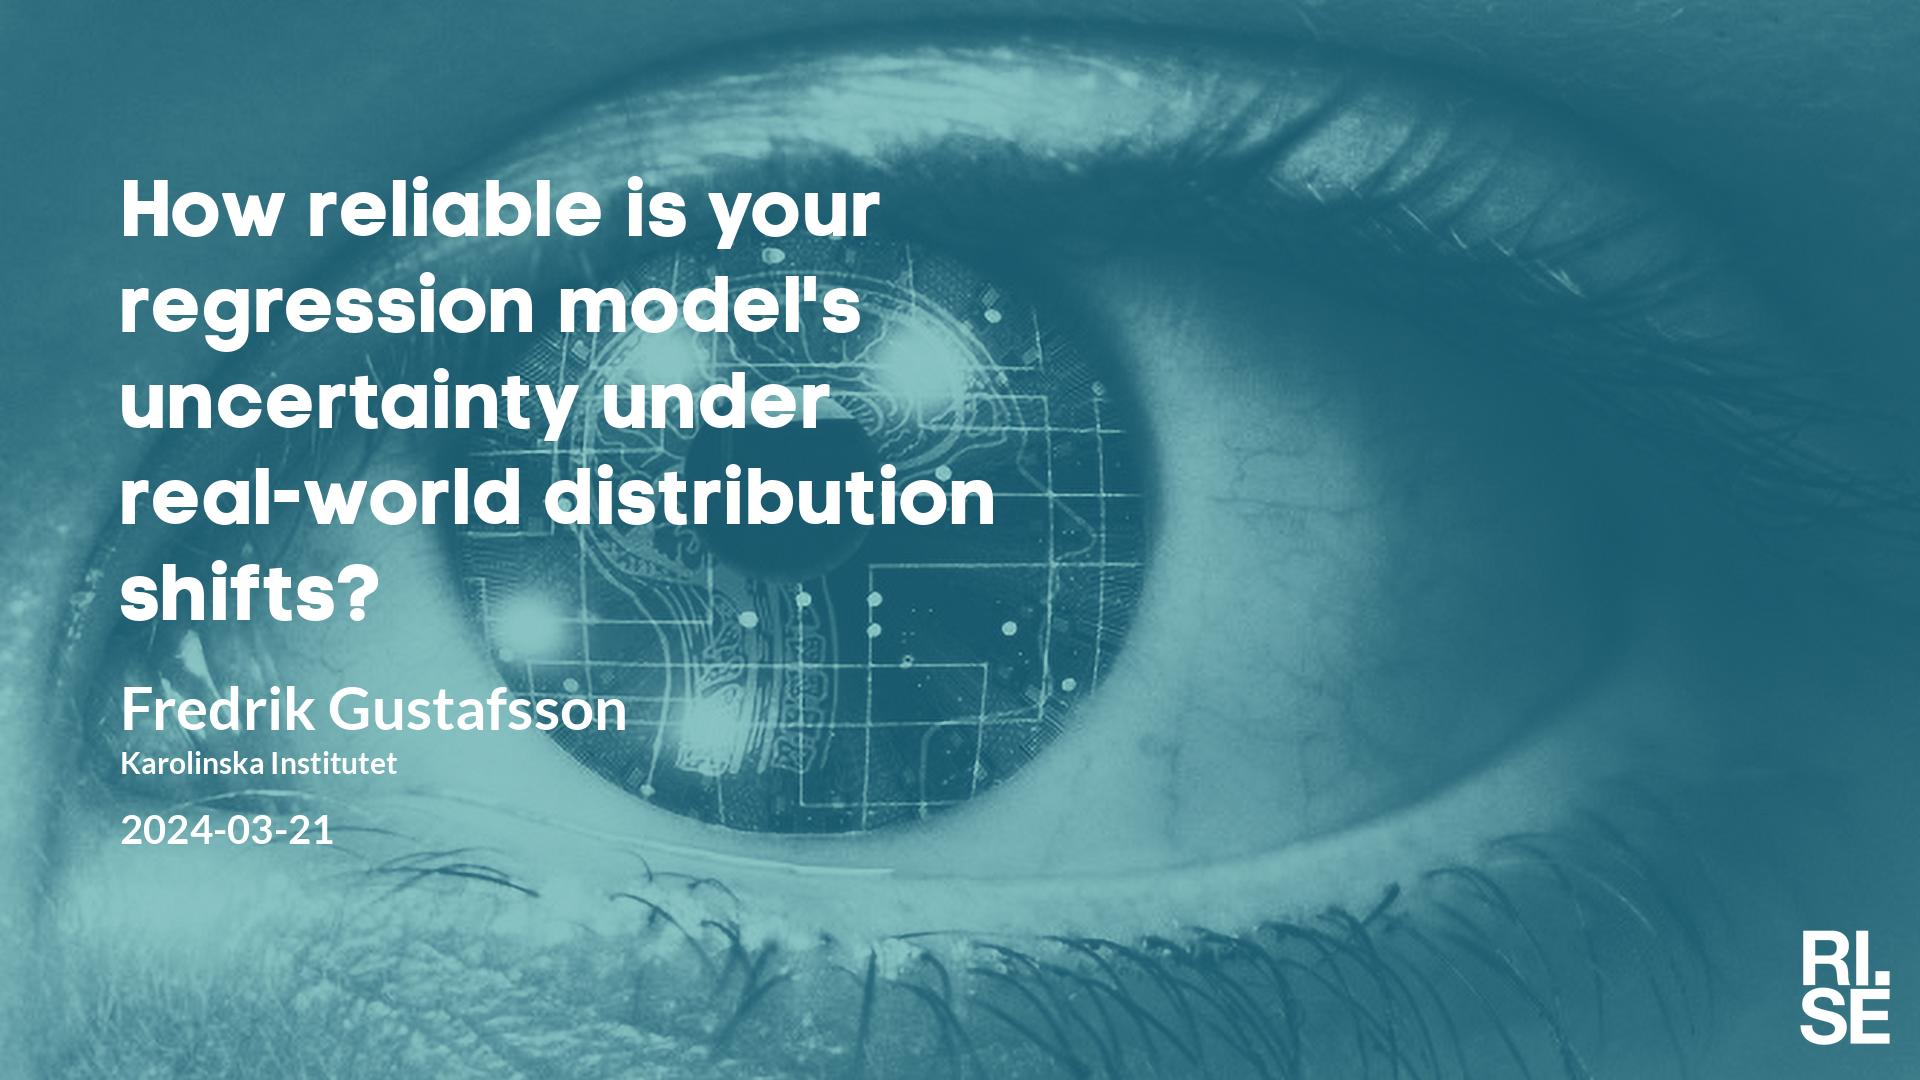
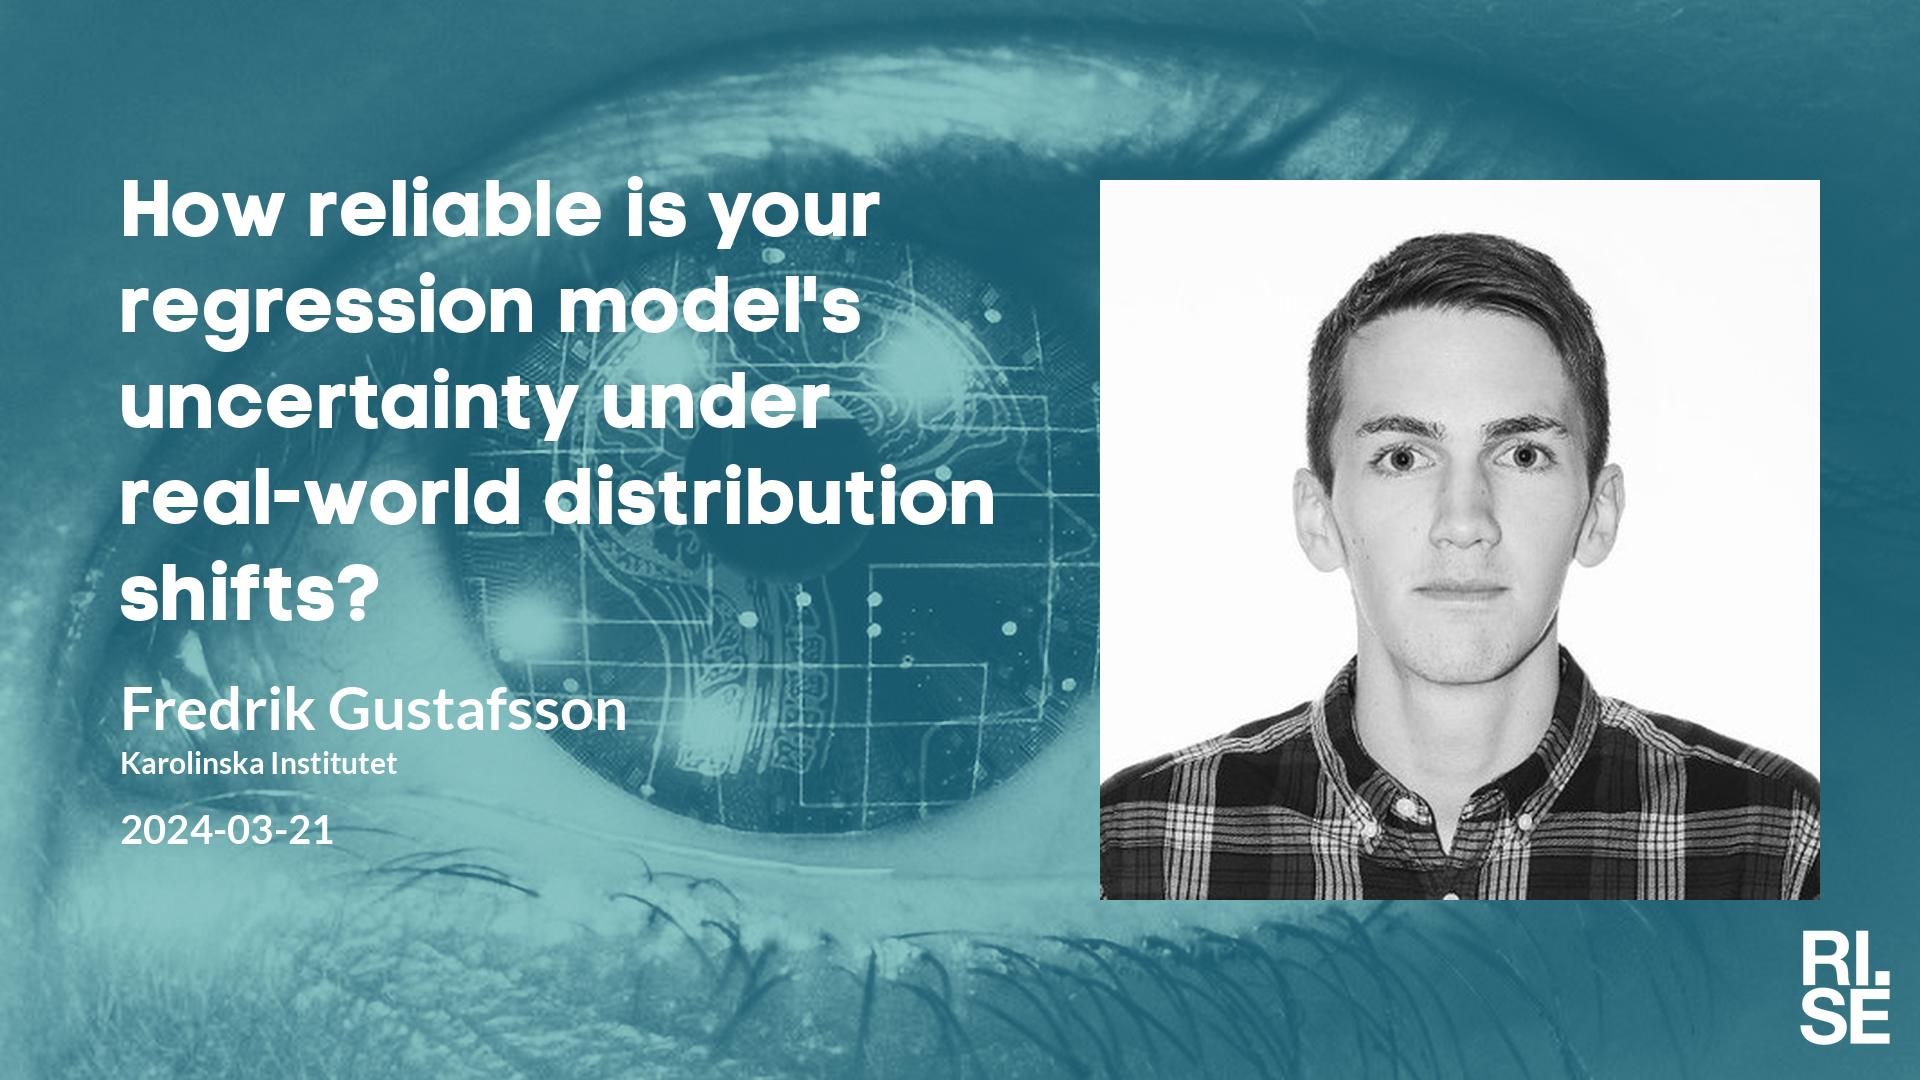
Updated plan on web site.

Changed region(s): [[0.5625, 0.1528, 0.9688, 0.8556]]

diff --git a/lm/index.md b/lm/index.md
@@ -19,7 +19,7 @@ table {border-collapse: collapse;}
 | <span style="color:red"> 2024-02-29 </span> | <span style="color:red"> Sportlov </span> | <span style="color:red">  </span> | <span style="color:red">  </span> | <span style="color:red">  </span> | <span style="color:red">  </span> | <span style="color:red"> CANCELLED </span> |
 |  2024-03-07  |  [Elise van der Pol, Microsoft Research](2024-03-07.md)  |  [photo](photo-elise-van-der-pol.jpg)  |  [social media ](social-media-elise-van-der-pol.jpg)  |  [meeting backdrop ](meeting-backdrop-elise-van-der-pol.jpg)  |  [youtube thumbnail ](youtube-thumbnail-elise-van-der-pol.jpg)  |  S~~TAB~~P  |
 |  2024-03-14  |  [Santiago Martinez Balvanera, University College London](2024-03-14.md)  |  [photo](photo-santiago-martinez-balvanera.jpg)  |  [social media ](social-media-santiago-martinez-balvanera.jpg)  |  [meeting backdrop ](meeting-backdrop-santiago-martinez-balvanera.jpg)  |  [youtube thumbnail ](youtube-thumbnail-santiago-martinez-balvanera.jpg)  |  S~~TAB~~P  |
-|  2024-03-21  |  [Fredrik Gustafsson, Karolinska Institutet](2024-03-21.md)  |    |  [social media ](social-media-fredrik-gustafsson.jpg)  |  [meeting backdrop ](meeting-backdrop-fredrik-gustafsson.jpg)  |  [youtube thumbnail ](youtube-thumbnail-fredrik-gustafsson.jpg)  |  STA~~BP~~  |
+|  2024-03-21  |  [Fredrik Gustafsson, Karolinska Institutet](2024-03-21.md)  |  [photo](photo-fredrik-gustafsson.jpg)  |  [social media ](social-media-fredrik-gustafsson.jpg)  |  [meeting backdrop ](meeting-backdrop-fredrik-gustafsson.jpg)  |  [youtube thumbnail ](youtube-thumbnail-fredrik-gustafsson.jpg)  |  STA~~B~~P  |
 |  2024-04-04  |  [Karsten Kreis, NVIDIA Toronto AI Lab](2024-04-04.md)  |    |  [social media ](social-media-karsten-kreis.jpg)  |  [meeting backdrop ](meeting-backdrop-karsten-kreis.jpg)  |  [youtube thumbnail ](youtube-thumbnail-karsten-kreis.jpg)  |  S~~TABP~~  |
 | <span style="color:purple"> 2024-04-11 </span> | <span style="color:purple"> *Up for grabs!!!* </span> | <span style="color:purple">  </span> | <span style="color:purple">  </span> | <span style="color:purple">  </span> | <span style="color:purple">  </span> | <span style="color:purple"> ~~STABP~~ </span> |
 | <span style="color:purple"> 2024-04-18 </span> | <span style="color:purple"> *Up for grabs!!!* </span> | <span style="color:purple">  </span> | <span style="color:purple">  </span> | <span style="color:purple">  </span> | <span style="color:purple">  </span> | <span style="color:purple"> ~~STABP~~ </span> |
